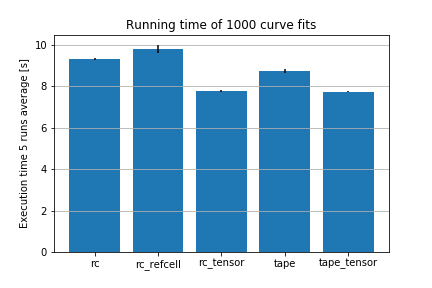
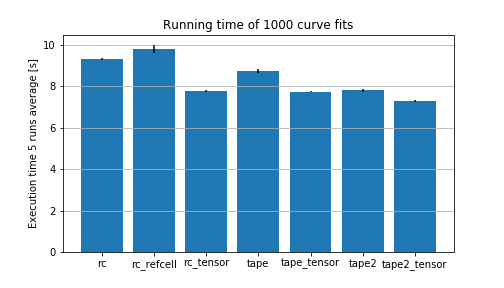
Update performance analysis

diff --git a/README.md b/README.md
@@ -308,15 +308,28 @@ We can measure the performance of each type of terms.
 We tested with `RcTerm`, `TapeTerm<f64>` and `TapeTerm<MyTensor>`, where
 `MyTensor` is custom implementation of 1-D vector.
 
-The plot below shows comparison of each implementation in [rc_curve_fit](examples/rc_curve_fit.rs), [rc_tensor_curve_fit](examples/rc_tensor_curve_fit.rs), [tape_curve_fit](examples/tape_curve_fit.rs) and [tape_tensor_curve_fit](examples/tape_tensor_curve_fit.rs).
+The plot below shows comparison of various implementations.
+The codes are in [rc_curve_fit](examples/rc_curve_fit.rs), [rc_tensor_curve_fit](examples/rc_tensor_curve_fit.rs), [tape_curve_fit](examples/tape_curve_fit.rs) and [tape_tensor_curve_fit](examples/tape_tensor_curve_fit.rs).
+
+![term_perf](images/term_perf.png)
+
+* rc - `RcTerm`, with `Cell<f64>` as the payload
+* rc_refcell - `RcTerm<f64>`, with `RefCell<f64>` as the payload
+* rc_tensor - `RcTerm<MyTensor>`, with `RefCell<MyTensor>` with 80 elements as the payload
+* tape - `TapeTerm`, with `f64` as the payload
+* tape_tensor - `TapeTerm<MyTensor>`, with `MyTensor` with 80 elements as the payload
+* tape2 - same as tape, except improved backprop strategy (rolling tape)
+* tape2_tensor - same as tape_tensor, except improved backprop strategy (rolling tape)
+
 The difference between `rc` and `rc_refcell` is that the former uses `Cell` as the container of the value, while the latter uses `RefCell`.
 If the value is a `Copy`, we could use `Cell` and there is no overhead in runtime borrow checking, but if it was not a `Copy`, we have to use `RefCell` to update it.
 A tensor is (usually) not a copy, so we have to use `RefCell`, so I was interested in the overhead.
-
-![term_perf](images/term_perf.png)
 
 As you can see, `TapeTerm<f64>` is faster than `RcTerm<f64>`.
 Also, the performance gain by changing from `f64` (scalar) to `MyTensor` is greater than the introduction of `RefCell`, and it is almost the same between `RcTerm<MyTensor>` and `TapeTerm<MyTensor>`.
 
 It indicates that even though `MyTensor` uses additional heap memory allocation, it is still faster to aggregate operation in an expression, rather than scanning the scalar value and evaluating each of them.
 Next step is to investigate if using a memory arena for the contents of the tensor helps further.
+
+On top of that, utilizing the tape's property that every variable has no dependencies after that node makes it possible to "roll" the tape and calculate differentials in one evaluation per node.
+It improves the performance even further by removing redundant visits.
